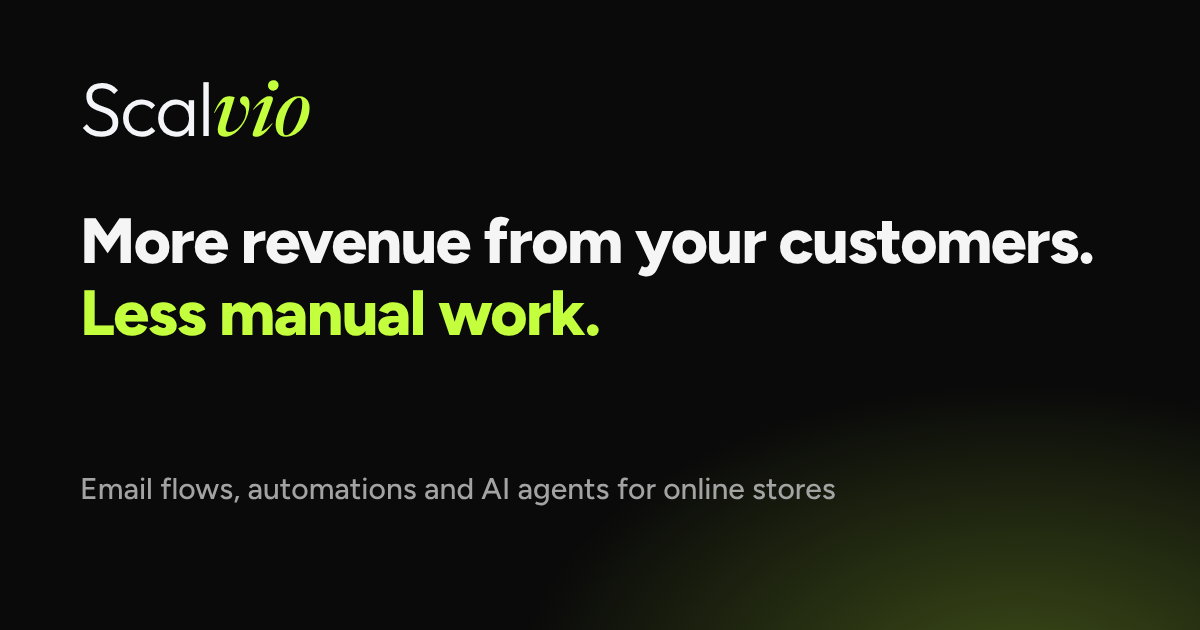
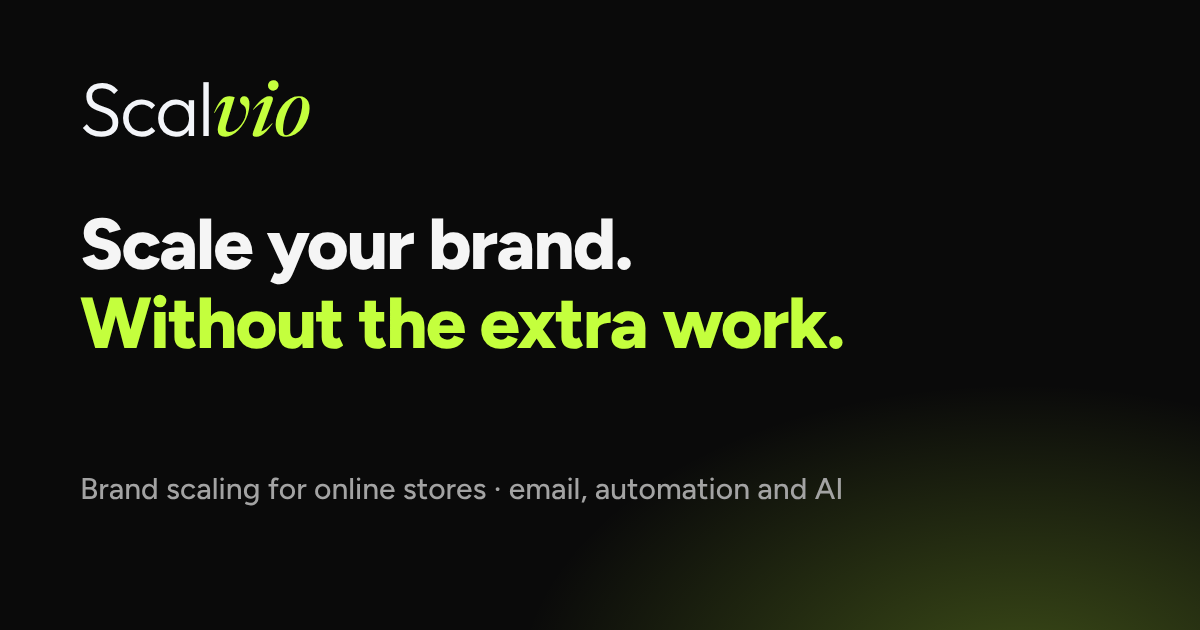
Position Scalvio around brand scaling
Hero, services intro, loop heading, closing card, footer line, titles,
meta and structured data now lead with brand scaling, with email,
automation and AI as the means. Same in English and Dutch. New share
image; the headline keeps its line break through the word animation.

Claude-Session: https://claude.ai/code/session_01RDEYwZjT6HQkRcYKagyH3U

Changed region(s): [[0.0617, 0.3317, 0.925, 0.573], [0.0617, 0.754, 0.7092, 0.8143]]

diff --git a/en/index.html b/en/index.html
@@ -3,18 +3,18 @@
 <head>
 <meta charset="utf-8">
 <meta name="viewport" content="width=device-width, initial-scale=1, viewport-fit=cover">
-<title>Scalvio</title>
-<meta name="description" content="More revenue from email and less manual work through automation and AI, for online stores.">
+<title>Scalvio · Brand scaling for online stores</title>
+<meta name="description" content="Scalvio scales online brands: email that sells, and automations and AI agents that take over the daily work, so growth doesn't mean more hands.">
 <meta name="claude:viewport-fit-sides" content="cover">
-<meta property="og:title" content="Scalvio · More revenue, less manual work for online stores">
-<meta property="og:description" content="Email flows that sell, and automations and AI agents that take over the daily work.">
+<meta property="og:title" content="Scalvio · Brand scaling for online stores">
+<meta property="og:description" content="Scale your brand without the extra work: email that sells, and automations and AI agents that take over the daily work.">
 <meta property="og:type" content="website">
 <meta property="og:locale" content="en_GB">
 <link rel="icon" href="../favicon.svg" type="image/svg+xml">
 <meta name="theme-color" content="#0A0A0A">
 <meta property="og:image" content="../og-image.png">
 <meta name="twitter:card" content="summary_large_image">
-<script type="application/ld+json">{"@context":"https://schema.org","@type":"ProfessionalService","name":"Scalvio","description":"Email flows, automations and AI agents for online stores.","email":"thijmenvanhuffelen7@gmail.com","legalName":"Ecom Thijmen","vatID":"NL005289760B27","identifier":"KvK 97815845","priceRange":"€€"}</script>
+<script type="application/ld+json">{"@context":"https://schema.org","@type":"ProfessionalService","name":"Scalvio","description":"Brand scaling for online stores with email, automations and AI agents.","slogan":"Scale your brand. Without the extra work.","email":"thijmenvanhuffelen7@gmail.com","legalName":"Ecom Thijmen","vatID":"NL005289760B27","identifier":"KvK 97815845","priceRange":"€€"}</script>
 <link rel="canonical" href="https://scalvio.nl/en/">
 <link rel="alternate" hreflang="en" href="https://scalvio.nl/en/">
 <link rel="alternate" hreflang="nl" href="https://scalvio.nl/nl/">
@@ -54,8 +54,9 @@
       <span class="avail-dot" aria-hidden="true"></span>
       <span><b>Limited availability</b><small>I only take on a few projects at a time. Book your audit early.</small></span>
     </a>
-    <h1>More revenue from your customers. <span class="hl">Less manual work.</span></h1>
-    <p class="lede">I build email flows that sell, and automations and AI agents that take over the daily work. All connected to the tools you already use.</p>
+    <p class="eyebrow">Brand scaling for online stores</p>
+    <h1>Scale your brand.<br><span class="hl">Without the extra work.</span></h1>
+    <p class="lede">I scale online brands with email flows that sell, and automations and AI agents that take over the daily work. So your brand grows, without your workload growing with it.</p>
     <div class="actions">
       <a class="button" href="https://cal.com/thijmen-scalvia/30min" target="_blank" rel="noopener">Book a free audit</a>
       <a class="button line" href="work.html">See my work</a>
@@ -113,8 +114,8 @@
 <section class="sec band" id="services" aria-labelledby="h-auto">
   <div class="inner">
     <div class="intro">
-      <h2 id="h-auto">Two things I help you with</h2>
-      <p>Selling more to the customers you already have, and spending less time on work that comes back every day. You can start with either one.</p>
+      <h2 id="h-auto">Two engines that scale your brand</h2>
+      <p>Scaling means selling more to the customers you already have, without the work growing along with it. These are the two engines behind it. You can start with either one.</p>
     </div>
 
     <div class="pillar">
@@ -266,7 +267,7 @@
       <div class="prose">
         <p class="eyebrow">Who builds it</p>
         <h2 id="h-me">Hi, I'm Thijmen.</h2>
-        <p>I build the systems behind online stores: <b>email flows in Klaviyo, AI agents and automations</b> that take over work that comes back every day.</p>
+        <p>I build the systems that scale online brands: <b>email flows in Klaviyo, AI agents and automations</b> that take over work that comes back every day.</p>
         <p>I design the emails and build the connections behind them, so you work with one person instead of three different parties.</p>
         <div class="actions" style="margin-top:6px"><a class="button" href="https://cal.com/thijmen-scalvia/30min" target="_blank" rel="noopener">Book a free audit</a><a class="button line" href="about.html">More about me</a></div>
       </div>
@@ -427,7 +428,7 @@
   <div class="inner">
     <span class="loop-icon" aria-hidden="true"><svg viewBox="0 0 24 24" fill="none" stroke="#C4FF3D" stroke-width="1.8" stroke-linecap="round" stroke-linejoin="round"><path d="M20 12a8 8 0 0 1-13.7 5.6"/><path d="M4 12A8 8 0 0 1 17.7 6.4"/><path d="M18 2.5v4h-4"/><path d="M6 21.5v-4h4"/></svg></span>
     <p class="eyebrow">How we work together</p>
-    <h2 id="h-wijze">A loop that keeps your store <span class="hl">growing</span>.</h2>
+    <h2 id="h-wijze">A loop that keeps your brand <span class="hl">scaling</span>.</h2>
     <p class="sub">Four phases from audit to results. After that the loop keeps running, and every month starts smarter than the last.</p>
     <ol class="phases">
       <li class="phase"><div class="ph-top"><span class="ph-num" aria-hidden="true"></span><span class="ph-tag">Free</span></div><h3>Audit</h3><p>I look at your store, your email and your daily work. You'll hear where revenue is being missed and which work can run on its own.</p></li>
@@ -516,8 +517,8 @@
       </div>
       <div class="close-body">
         <p class="eyebrow">Free 30-minute audit</p>
-        <h2 id="h-cta">More revenue, less manual work?</h2>
-        <p>You'll see where revenue is being missed, which work can run on its own and what it would deliver.</p>
+        <h2 id="h-cta">Ready to scale your brand?</h2>
+        <p>You'll see where your brand can grow, which work can run on its own and what it would deliver.</p>
         <ul class="checks"><li>The flows you're missing</li><li>Work you can automate</li><li>A fixed price if you want to go ahead</li></ul>
         <a class="button" href="https://cal.com/thijmen-scalvia/30min" target="_blank" rel="noopener">Book a free audit</a>
       </div>
@@ -540,7 +541,7 @@
   <div class="inner">
     <div>
       <span class="name"><img src="../logo-green.webp" alt="Scalvio" width="123" height="30" loading="lazy"></span>
-      <p class="about-line">More revenue from email. Less manual work through automation and AI. For online stores.</p>
+      <p class="about-line">Brand scaling for online stores. More revenue from email, less manual work through automation and AI.</p>
     </div>
     <div><h3>Website</h3><ul>
       <li><a href="#top">Home</a></li>

diff --git a/nl/index.html b/nl/index.html
@@ -3,18 +3,18 @@
 <head>
 <meta charset="utf-8">
 <meta name="viewport" content="width=device-width, initial-scale=1, viewport-fit=cover">
-<title>Scalvio</title>
-<meta name="description" content="Meer omzet uit e-mail en minder handwerk met automatisering en AI, voor webshops.">
+<title>Scalvio · Brand scaling voor webshops</title>
+<meta name="description" content="Scalvio schaalt online merken op: e-mail die verkoopt, en automatiseringen en AI-agents die het dagelijkse werk overnemen. Zo groei je zonder extra handen.">
 <meta name="claude:viewport-fit-sides" content="cover">
-<meta property="og:title" content="Scalvio · Meer omzet, minder handwerk voor webshops">
-<meta property="og:description" content="E-mailflows die verkopen, en automatiseringen en AI-agents die het dagelijkse werk overnemen.">
+<meta property="og:title" content="Scalvio · Brand scaling voor webshops">
+<meta property="og:description" content="Schaal je merk op zonder extra werk: e-mail die verkoopt, en automatiseringen en AI-agents die het dagelijkse werk overnemen.">
 <meta property="og:type" content="website">
 <meta property="og:locale" content="nl_NL">
 <link rel="icon" href="../favicon.svg" type="image/svg+xml">
 <meta name="theme-color" content="#0A0A0A">
 <meta property="og:image" content="../og-image.png">
 <meta name="twitter:card" content="summary_large_image">
-<script type="application/ld+json">{"@context":"https://schema.org","@type":"ProfessionalService","name":"Scalvio","description":"E-mailflows, automatiseringen en AI-agents voor webshops.","email":"thijmenvanhuffelen7@gmail.com","legalName":"Ecom Thijmen","vatID":"NL005289760B27","identifier":"KvK 97815845","priceRange":"€€"}</script>
+<script type="application/ld+json">{"@context":"https://schema.org","@type":"ProfessionalService","name":"Scalvio","description":"Brand scaling voor webshops met e-mail, automatiseringen en AI-agents.","slogan":"Schaal je merk op. Zonder extra werk.","email":"thijmenvanhuffelen7@gmail.com","legalName":"Ecom Thijmen","vatID":"NL005289760B27","identifier":"KvK 97815845","priceRange":"€€"}</script>
 <link rel="canonical" href="https://scalvio.nl/nl/">
 <link rel="alternate" hreflang="en" href="https://scalvio.nl/en/">
 <link rel="alternate" hreflang="nl" href="https://scalvio.nl/nl/">
@@ -54,8 +54,9 @@
       <span class="avail-dot" aria-hidden="true"></span>
       <span><b>Beperkte plekken</b><small>Ik neem maar een paar projecten tegelijk aan. Plan je audit op tijd.</small></span>
     </a>
-    <h1>Meer omzet uit je klanten. <span class="hl">Minder handwerk.</span></h1>
-    <p class="lede">Ik bouw e-mailflows die verkopen, en automatiseringen en AI-agents die het dagelijkse werk overnemen. Allemaal gekoppeld aan de tools die je al gebruikt.</p>
+    <p class="eyebrow">Brand scaling voor webshops</p>
+    <h1>Schaal je merk op.<br><span class="hl">Zonder extra werk.</span></h1>
+    <p class="lede">Ik schaal online merken op met e-mailflows die verkopen, en automatiseringen en AI-agents die het dagelijkse werk overnemen. Zo groeit je merk, zonder dat je werk meegroeit.</p>
     <div class="actions">
       <a class="button" href="https://cal.com/thijmen-scalvia/30min" target="_blank" rel="noopener">Plan een gratis audit</a>
       <a class="button line" href="work.html">Bekijk mijn werk</a>
@@ -113,8 +114,8 @@
 <section class="sec band" id="services" aria-labelledby="h-auto">
   <div class="inner">
     <div class="intro">
-      <h2 id="h-auto">Twee dingen waar ik je mee help</h2>
-      <p>Meer verkopen aan de klanten die je al hebt, en minder tijd kwijt zijn aan werk dat elke dag terugkomt. Je kunt met allebei beginnen.</p>
+      <h2 id="h-auto">Twee motoren die je merk opschalen</h2>
+      <p>Opschalen is meer verkopen aan de klanten die je al hebt, zonder dat het werk meegroeit. Dit zijn de twee motoren erachter. Je kunt met allebei beginnen.</p>
     </div>
 
     <div class="pillar">
@@ -266,7 +267,7 @@
       <div class="prose">
         <p class="eyebrow">Wie het bouwt</p>
         <h2 id="h-me">Hoi, ik ben Thijmen.</h2>
-        <p>Ik bouw de systemen achter webshops: <b>e-mailflows in Klaviyo, AI-agents en automatiseringen</b> die werk overnemen dat elke dag terugkomt.</p>
+        <p>Ik bouw de systemen die online merken opschalen: <b>e-mailflows in Klaviyo, AI-agents en automatiseringen</b> die werk overnemen dat elke dag terugkomt.</p>
         <p>Ik ontwerp de e-mails en bouw de koppelingen erachter, zodat je met één persoon werkt in plaats van drie verschillende partijen.</p>
         <div class="actions" style="margin-top:6px"><a class="button" href="https://cal.com/thijmen-scalvia/30min" target="_blank" rel="noopener">Plan een gratis audit</a><a class="button line" href="about.html">Meer over mij</a></div>
       </div>
@@ -427,7 +428,7 @@
   <div class="inner">
     <span class="loop-icon" aria-hidden="true"><svg viewBox="0 0 24 24" fill="none" stroke="#C4FF3D" stroke-width="1.8" stroke-linecap="round" stroke-linejoin="round"><path d="M20 12a8 8 0 0 1-13.7 5.6"/><path d="M4 12A8 8 0 0 1 17.7 6.4"/><path d="M18 2.5v4h-4"/><path d="M6 21.5v-4h4"/></svg></span>
     <p class="eyebrow">Zo werken we samen</p>
-    <h2 id="h-wijze">Een loop die je webshop laat <span class="hl">groeien</span>.</h2>
+    <h2 id="h-wijze">Een loop die je merk blijft <span class="hl">opschalen</span>.</h2>
     <p class="sub">Vier fases van audit tot resultaat. Daarna blijft de loop draaien, en elke maand begint slimmer dan de vorige.</p>
     <ol class="phases">
       <li class="phase"><div class="ph-top"><span class="ph-num" aria-hidden="true"></span><span class="ph-tag">Gratis</span></div><h3>Audit</h3><p>Ik kijk naar je webshop, je e-mail en je dagelijkse werk. Je hoort waar omzet blijft liggen en welk werk vanzelf kan lopen.</p></li>
@@ -516,8 +517,8 @@
       </div>
       <div class="close-body">
         <p class="eyebrow">Gratis audit van 30 minuten</p>
-        <h2 id="h-cta">Meer omzet, minder handwerk?</h2>
-        <p>Je ziet waar omzet blijft liggen, welk werk vanzelf kan lopen en wat het zou opleveren.</p>
+        <h2 id="h-cta">Klaar om je merk op te schalen?</h2>
+        <p>Je ziet waar je merk kan groeien, welk werk vanzelf kan lopen en wat het zou opleveren.</p>
         <ul class="checks"><li>De flows die je mist</li><li>Werk dat je kunt automatiseren</li><li>Een vaste prijs als je verder wilt</li></ul>
         <a class="button" href="https://cal.com/thijmen-scalvia/30min" target="_blank" rel="noopener">Plan een gratis audit</a>
       </div>
@@ -540,7 +541,7 @@
   <div class="inner">
     <div>
       <span class="name"><img src="../logo-green.webp" alt="Scalvio" width="123" height="30" loading="lazy"></span>
-      <p class="about-line">Meer omzet uit e-mail. Minder handwerk met automatisering en AI. Voor webshops.</p>
+      <p class="about-line">Brand scaling voor webshops. Meer omzet uit e-mail, minder handwerk met automatisering en AI.</p>
     </div>
     <div><h3>Website</h3><ul>
       <li><a href="#top">Home</a></li>

diff --git a/nl/about.html b/nl/about.html
@@ -42,7 +42,7 @@
     <div class="photo">T<img src="../foto-thijmen.webp" alt="Thijmen, oprichter van Scalvio" decoding="async" onerror="this.remove()"></div>
     <div class="prose">
       <h2 style="font-size:clamp(28px,3.4vw,40px)">Hoi, ik ben Thijmen.</h2>
-      <p>Ik bouw de systemen achter webshops: <b>e-mailflows in Klaviyo, AI-agents en automatiseringen</b> die werk overnemen dat elke dag terugkomt.</p>
+      <p>Ik bouw de systemen die online merken opschalen: <b>e-mailflows in Klaviyo, AI-agents en automatiseringen</b> die werk overnemen dat elke dag terugkomt.</p>
       <p>Ik ben van nature technisch. Ik ontwerp de e-mails, maar bouw ook de koppelingen erachter. Zo hoef je niet te schakelen tussen drie verschillende partijen.</p>
       <p>Bij de webshops waarvoor ik werk, <b>kwam 22 tot 34% van de totale omzet uit e-mail</b>. De cijfers staan bij mijn <a href="work.html">werk</a>.</p>
       <div class="actions" style="margin-top:8px"><a class="button" href="https://cal.com/thijmen-scalvia/30min" target="_blank" rel="noopener">Plan een gratis audit</a><a class="button line" href="work.html">Bekijk mijn werk</a></div>
@@ -65,7 +65,7 @@
   <div class="inner">
     <div>
       <span class="name"><img src="../logo-green.webp" alt="Scalvio" width="123" height="30" loading="lazy"></span>
-      <p class="about-line">Meer omzet uit e-mail. Minder handwerk met automatisering en AI. Voor webshops.</p>
+      <p class="about-line">Brand scaling voor webshops. Meer omzet uit e-mail, minder handwerk met automatisering en AI.</p>
     </div>
     <div><h3>Website</h3><ul>
       <li><a href="index.html">Home</a></li>

diff --git a/en/about.html b/en/about.html
@@ -42,7 +42,7 @@
     <div class="photo">T<img src="../foto-thijmen.webp" alt="Thijmen, founder of Scalvio" decoding="async" onerror="this.remove()"></div>
     <div class="prose">
       <h2 style="font-size:clamp(28px,3.4vw,40px)">Hi, I'm Thijmen.</h2>
-      <p>I build the systems behind online stores: <b>email flows in Klaviyo, AI agents and automations</b> that take over work that comes back every day.</p>
+      <p>I build the systems that scale online brands: <b>email flows in Klaviyo, AI agents and automations</b> that take over work that comes back every day.</p>
       <p>I'm technical by nature. I design the emails, but I also build the connections behind them. So you don't have to coordinate between three different parties.</p>
       <p>For the stores I work with, <b>22 to 34% of total revenue came from email</b>. The numbers are in my <a href="work.html">work</a>.</p>
       <div class="actions" style="margin-top:8px"><a class="button" href="https://cal.com/thijmen-scalvia/30min" target="_blank" rel="noopener">Book a free audit</a><a class="button line" href="work.html">See my work</a></div>
@@ -65,7 +65,7 @@
   <div class="inner">
     <div>
       <span class="name"><img src="../logo-green.webp" alt="Scalvio" width="123" height="30" loading="lazy"></span>
-      <p class="about-line">More revenue from email. Less manual work through automation and AI. For online stores.</p>
+      <p class="about-line">Brand scaling for online stores. More revenue from email, less manual work through automation and AI.</p>
     </div>
     <div><h3>Website</h3><ul>
       <li><a href="index.html">Home</a></li>

diff --git a/en/case-studies.html b/en/case-studies.html
@@ -102,7 +102,7 @@
 
 <section class="close band" aria-labelledby="h-cta">
   <div class="inner">
-    <h2 id="h-cta">Curious what this could do for your store?</h2>
+    <h2 id="h-cta">Curious how far your brand can scale?</h2>
     <p>In a free 30-minute audit you will see where revenue is being missed and what it could deliver.</p>
     <a class="button" href="https://cal.com/thijmen-scalvia/30min" target="_blank" rel="noopener">Book a free audit</a>
   </div>
@@ -114,7 +114,7 @@
   <div class="inner">
     <div>
       <span class="name"><img src="../logo-green.webp" alt="Scalvio" width="123" height="30" loading="lazy"></span>
-      <p class="about-line">More revenue from email. Less manual work through automation and AI. For online stores.</p>
+      <p class="about-line">Brand scaling for online stores. More revenue from email, less manual work through automation and AI.</p>
     </div>
     <div><h3>Website</h3><ul>
       <li><a href="index.html">Home</a></li>

diff --git a/nl/case-studies.html b/nl/case-studies.html
@@ -102,7 +102,7 @@
 
 <section class="close band" aria-labelledby="h-cta">
   <div class="inner">
-    <h2 id="h-cta">Benieuwd wat dit voor jouw webshop kan doen?</h2>
+    <h2 id="h-cta">Benieuwd hoe ver je merk kan opschalen?</h2>
     <p>In een gratis audit van 30 minuten zie je waar omzet blijft liggen en wat het kan opleveren.</p>
     <a class="button" href="https://cal.com/thijmen-scalvia/30min" target="_blank" rel="noopener">Plan een gratis audit</a>
   </div>
@@ -114,7 +114,7 @@
   <div class="inner">
     <div>
       <span class="name"><img src="../logo-green.webp" alt="Scalvio" width="123" height="30" loading="lazy"></span>
-      <p class="about-line">Meer omzet uit e-mail. Minder handwerk met automatisering en AI. Voor webshops.</p>
+      <p class="about-line">Brand scaling voor webshops. Meer omzet uit e-mail, minder handwerk met automatisering en AI.</p>
     </div>
     <div><h3>Website</h3><ul>
       <li><a href="index.html">Home</a></li>

diff --git a/index.html b/index.html
@@ -3,8 +3,8 @@
 <head>
 <meta charset="utf-8">
 <meta name="viewport" content="width=device-width, initial-scale=1, viewport-fit=cover">
-<title>Scalvio</title>
-<meta name="description" content="Meer omzet uit e-mail en minder handwerk met automatisering en AI, voor webshops. More revenue from email and less manual work for online stores.">
+<title>Scalvio · Brand scaling</title>
+<meta name="description" content="Scalvio: brand scaling voor webshops met e-mail, automatisering en AI. Brand scaling for online stores with email, automation and AI.">
 <link rel="alternate" hreflang="nl" href="https://scalvio.nl/nl/">
 <link rel="alternate" hreflang="en" href="https://scalvio.nl/en/">
 <link rel="alternate" hreflang="x-default" href="https://scalvio.nl/en/">

diff --git a/effects.js b/effects.js
@@ -51,10 +51,12 @@
     /* keep highlighted words (span.hl) highlighted after the split */
     var parts = [];
     h1.childNodes.forEach(function (n) {
+      if (n.nodeName === 'BR') { parts.push({ br: true }); return; }
       var hl = n.nodeType === 1 && n.classList.contains('hl');
       n.textContent.trim().split(/\s+/).forEach(function (w) { if (w) parts.push({ w: w, hl: hl }); });
     });
     h1.innerHTML = parts.map(function (p, i) {
+      if (p.br) return '<br>';
       return '<span class="w' + (p.hl ? ' hl' : '') + '"><span style="animation-delay:' + (i * 55) + 'ms">' + p.w + '</span></span>';
     }).join(' ');
     h1.classList.add('split');

diff --git a/en/work.html b/en/work.html
@@ -118,7 +118,7 @@
   <div class="inner">
     <div>
       <span class="name"><img src="../logo-green.webp" alt="Scalvio" width="123" height="30" loading="lazy"></span>
-      <p class="about-line">More revenue from email. Less manual work through automation and AI. For online stores.</p>
+      <p class="about-line">Brand scaling for online stores. More revenue from email, less manual work through automation and AI.</p>
     </div>
     <div><h3>Website</h3><ul>
       <li><a href="index.html">Home</a></li>

diff --git a/en/contact.html b/en/contact.html
@@ -79,7 +79,7 @@
   <div class="inner">
     <div>
       <span class="name"><img src="../logo-green.webp" alt="Scalvio" width="123" height="30" loading="lazy"></span>
-      <p class="about-line">More revenue from email. Less manual work through automation and AI. For online stores.</p>
+      <p class="about-line">Brand scaling for online stores. More revenue from email, less manual work through automation and AI.</p>
     </div>
     <div><h3>Website</h3><ul>
       <li><a href="index.html">Home</a></li>

diff --git a/en/privacy.html b/en/privacy.html
@@ -62,7 +62,7 @@
   <div class="inner">
     <div>
       <span class="name"><img src="../logo-green.webp" alt="Scalvio" width="123" height="30" loading="lazy"></span>
-      <p class="about-line">More revenue from email. Less manual work through automation and AI. For online stores.</p>
+      <p class="about-line">Brand scaling for online stores. More revenue from email, less manual work through automation and AI.</p>
     </div>
     <div><h3>Website</h3><ul>
       <li><a href="index.html">Home</a></li>

diff --git a/en/terms.html b/en/terms.html
@@ -64,7 +64,7 @@
   <div class="inner">
     <div>
       <span class="name"><img src="../logo-green.webp" alt="Scalvio" width="123" height="30" loading="lazy"></span>
-      <p class="about-line">More revenue from email. Less manual work through automation and AI. For online stores.</p>
+      <p class="about-line">Brand scaling for online stores. More revenue from email, less manual work through automation and AI.</p>
     </div>
     <div><h3>Website</h3><ul>
       <li><a href="index.html">Home</a></li>
